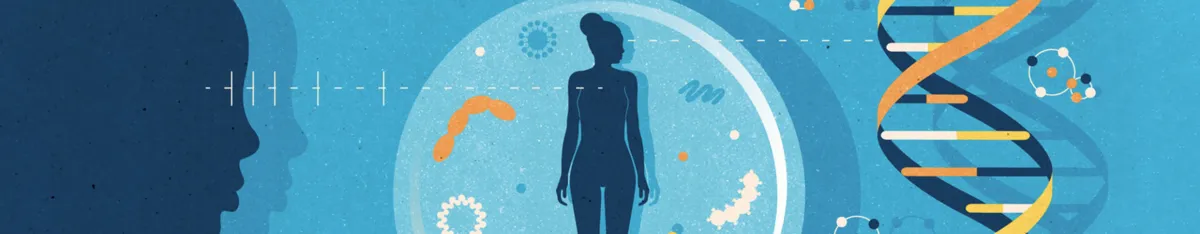
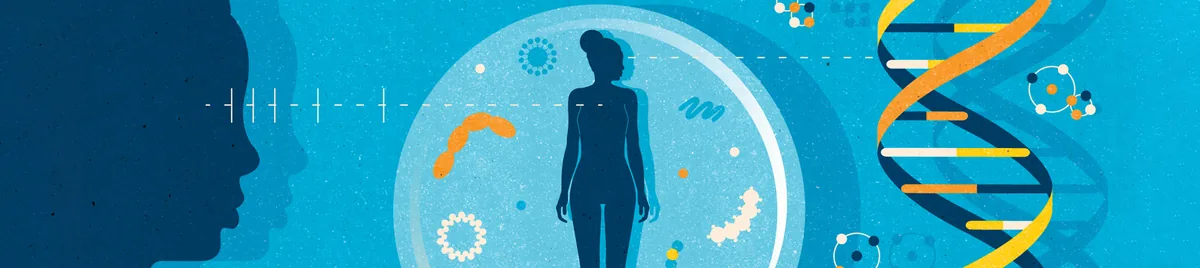
fix(portal): match the hero to the cifar site (#67)
* fix(portal): drop the hero illustration opacity to match the cifar site

* fix(portal): rebuild the hero webp set from the cifar banner

* fix(portal): dim the hero illustration to match cifar's rendering

* fix(portal): shrink the hero title and tagline below 600px

* fix(portal): bold the hero title to match the cifar heading

---------

diff --git a/apps/portal/src/app/pages/home-page/hero/hero.scss b/apps/portal/src/app/pages/home-page/hero/hero.scss
@@ -19,9 +19,10 @@ $_text-color: map.get(theme.$primary-palette, secondary, 100);
   }
 }
 
+// cifar.ca renders the same banner at 80% over the same background color.
 .illustration {
   object-fit: cover;
-  opacity: 0.6;
+  opacity: 0.8;
 }
 
 @media (prefers-reduced-motion: no-preference) {
@@ -72,11 +73,24 @@ $_text-color: map.get(theme.$primary-palette, secondary, 100);
 
 .title {
   margin: 0 0 0.75rem;
-  font: ds.sys-slot(display-large);
-  letter-spacing: ds.sys-slot(display-large-tracking);
+  font: ds.sys-slot(display-small);
+  font-weight: 700;
+  letter-spacing: ds.sys-slot(display-small-tracking);
+
+  @include ds.breakpoint(small) {
+    font-size: ds.sys-slot(display-large-size);
+    line-height: ds.sys-slot(display-large-line-height);
+    letter-spacing: ds.sys-slot(display-large-tracking);
+  }
 }
 
 .tagline {
   margin: 0;
-  font: ds.sys-slot(title-large);
+  font: ds.sys-slot(title-medium);
+  letter-spacing: ds.sys-slot(title-medium-tracking);
+
+  @include ds.breakpoint(small) {
+    font: ds.sys-slot(title-large);
+    letter-spacing: ds.sys-slot(title-large-tracking);
+  }
 }

diff --git a/apps/portal/src/app/pages/home-page/hero/hero.spec.ts b/apps/portal/src/app/pages/home-page/hero/hero.spec.ts
@@ -45,9 +45,9 @@ describe('Hero', () => {
     const illustration = screen.getByRole('presentation');
 
     expect(illustration).toHaveAttribute('alt', '');
-    expect(illustration.getAttribute('src')).toMatch(/hero-2880\.webp$/);
+    expect(illustration.getAttribute('src')).toMatch(/hero-2000\.webp$/);
     expect(illustration).toHaveAttribute('sizes', 'max(100vw, 2050px)');
     expect(illustration.getAttribute('srcset')).toContain('assets/images/hero-640.webp 640w');
-    expect(illustration.getAttribute('srcset')).toContain('assets/images/hero-2880.webp 2880w');
+    expect(illustration.getAttribute('srcset')).toContain('assets/images/hero-2000.webp 2000w');
   });
 });

diff --git a/apps/portal/src/app/pages/home-page/hero/hero.ts b/apps/portal/src/app/pages/home-page/hero/hero.ts
@@ -26,7 +26,7 @@ const HERO_CRUMBS: BreadcrumbItem[] = [
   providers: [
     {
       provide: IMAGE_LOADER,
-      useValue: ({ src, width }: ImageLoaderConfig) => `${src}-${width ?? 2880}.webp`,
+      useValue: ({ src, width }: ImageLoaderConfig) => `${src}-${width ?? 2000}.webp`,
     },
   ],
 })

diff --git a/apps/portal/src/app/pages/home-page/hero/hero.html b/apps/portal/src/app/pages/home-page/hero/hero.html
@@ -1,7 +1,7 @@
 <img
   class="illustration"
   ngSrc="assets/images/hero"
-  ngSrcset="640w, 750w, 828w, 1080w, 1200w, 1920w, 2048w, 2880w"
+  ngSrcset="640w, 750w, 828w, 1080w, 1200w, 1920w, 2000w"
   sizes="max(100vw, 2050px)"
   fill
   priority
